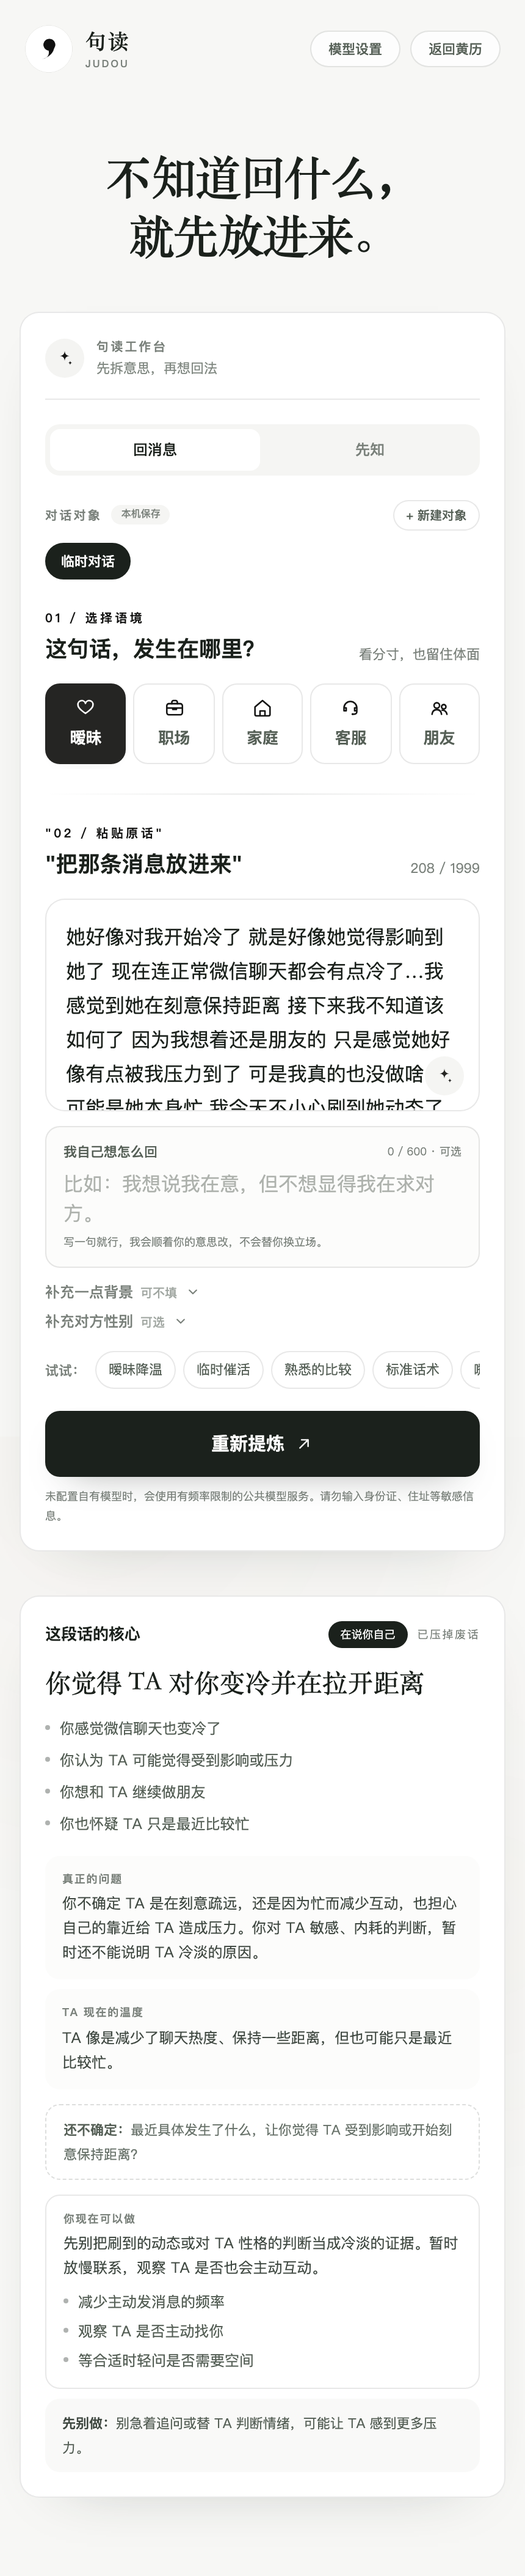
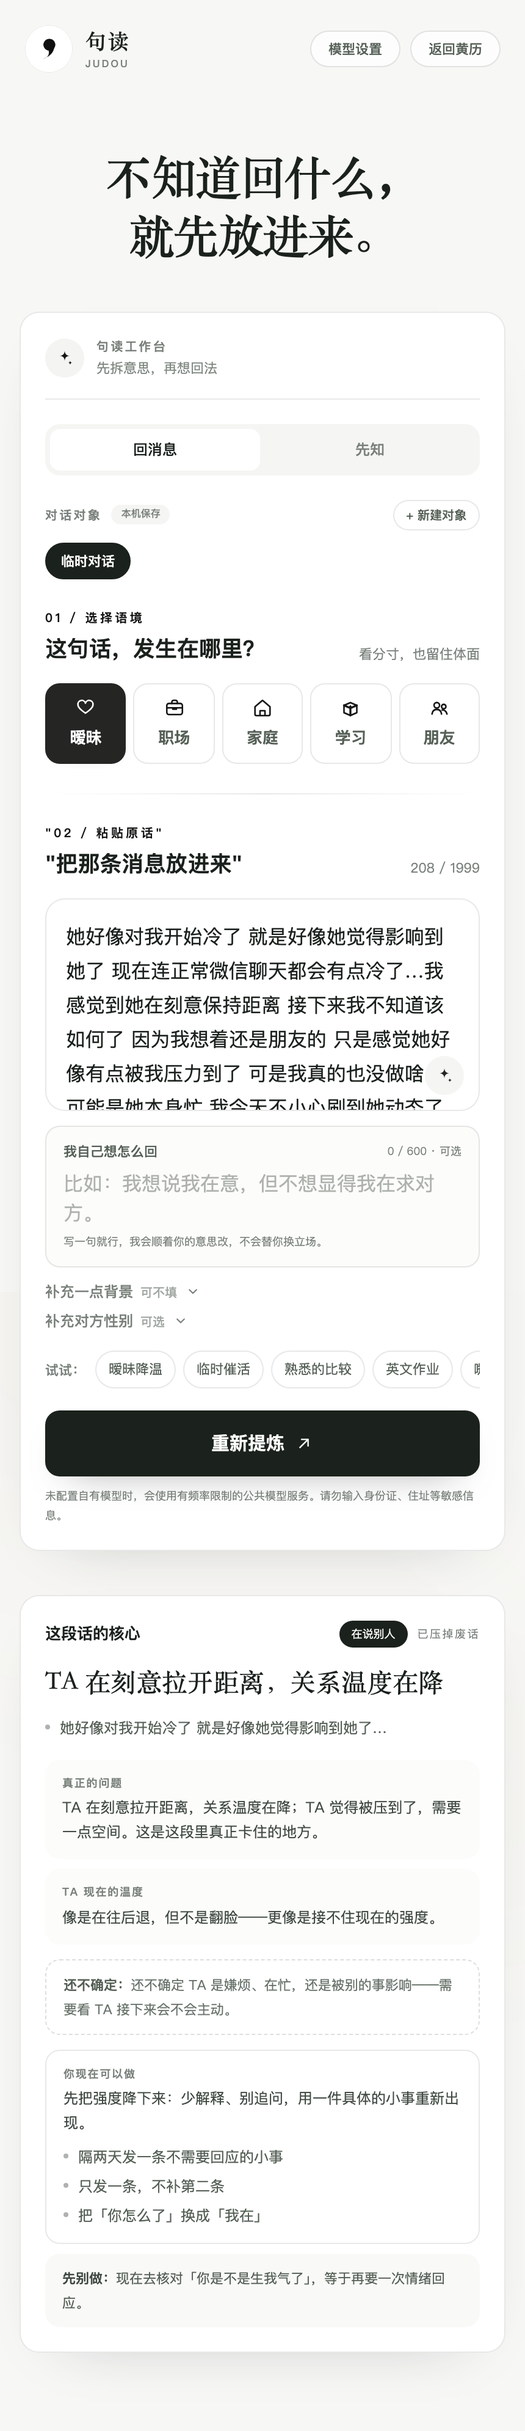
场景改学习；英文原文支持中英双语提炼
- 客服场景下线，替换为「学习」（含图标、示例、老数据迁移 service → study）
- 提炼结果新增 en 字段：英文/中英混排原文同时给中文与英文两版
- 结果卡右上角加「中 / EN」切换
- 截图脚本补 summary-en-mobile.png，展示图全部重新生成
- README 同步

diff --git a/components/SummaryCard.tsx b/components/SummaryCard.tsx
@@ -1,31 +1,63 @@
 "use client";
 
-import type { SummaryResult } from "@/lib/types";
+import { useState } from "react";
+
+import type { SummaryResult, SummaryTranslation } from "@/lib/types";
+
+type View = SummaryTranslation & { subject?: string };
 
 export function SummaryCard({ result }: { result: SummaryResult }) {
+  const [lang, setLang] = useState<"zh" | "en">("zh");
+  const hasEnglish = Boolean(result.en);
+  const view: View =
+    lang === "en" && result.en ? result.en : result;
+
   return (
     <section className="animate-fade-up rounded-2xl border border-ink-950/10 bg-white p-5 shadow-card sm:p-6">
       <div className="flex flex-wrap items-center justify-between gap-2">
-        <h3 className="text-[13px] font-semibold text-ink-950">这段话的核心</h3>
+        <h3 className="text-[13px] font-semibold text-ink-950">
+          {lang === "en" ? "The gist" : "这段话的核心"}
+        </h3>
         <div className="flex items-center gap-2">
-          {result.subject ? (
+          {hasEnglish ? (
+            <div className="flex rounded-full bg-cream-100 p-0.5">
+              {[
+                { value: "zh" as const, label: "中" },
+                { value: "en" as const, label: "EN" },
+              ].map((item) => (
+                <button
+                  key={item.value}
+                  type="button"
+                  onClick={() => setLang(item.value)}
+                  className={`rounded-full px-2.5 py-1 text-[10px] font-medium transition-colors ${
+                    lang === item.value
+                      ? "bg-white text-ink-950 shadow-soft"
+                      : "text-ink-400"
+                  }`}
+                >
+                  {item.label}
+                </button>
+              ))}
+            </div>
+          ) : null}
+          {result.subject && lang === "zh" ? (
             <span className="rounded-full bg-ink-950 px-2.5 py-1 text-[9px] text-cream-50">
               {result.subject}
             </span>
           ) : null}
           <span className="text-[9px] tracking-[0.14em] text-ink-400">
-            已压掉废话
+            {lang === "en" ? "trimmed" : "已压掉废话"}
           </span>
         </div>
       </div>
 
       <p className="mt-3 font-serif text-[21px] leading-8 text-ink-950 sm:text-[24px]">
-        {result.core}
+        {view.core}
       </p>
 
-      {result.points.length > 0 ? (
+      {view.points.length > 0 ? (
         <ul className="mt-3 space-y-1.5">
-          {result.points.map((point) => (
+          {view.points.map((point) => (
             <li
               key={point}
               className="flex gap-2 text-[12px] leading-5 text-ink-600"
@@ -39,41 +71,39 @@ export function SummaryCard({ result }: { result: SummaryResult }) {
 
       <div className="mt-4 rounded-xl bg-cream-50 px-3.5 py-3">
         <p className="text-[9px] font-semibold tracking-[0.1em] text-ink-400">
-          真正的问题
+          {lang === "en" ? "The real issue" : "真正的问题"}
         </p>
-        <p className="mt-1 text-[12px] leading-5 text-ink-700">
-          {result.meaning}
-        </p>
+        <p className="mt-1 text-[12px] leading-5 text-ink-700">{view.meaning}</p>
       </div>
 
-      {result.temperature ? (
+      {view.temperature ? (
         <div className="mt-2 rounded-xl bg-cream-50 px-3.5 py-3">
           <p className="text-[9px] font-semibold tracking-[0.1em] text-ink-400">
-            TA 现在的温度
+            {lang === "en" ? "Their temperature" : "TA 现在的温度"}
           </p>
           <p className="mt-1 text-[12px] leading-5 text-ink-700">
-            {result.temperature}
+            {view.temperature}
           </p>
         </div>
       ) : null}
 
-      {result.missing ? (
+      {view.missing ? (
         <p className="mt-3 rounded-xl border border-dashed border-ink-950/15 px-3.5 py-2.5 text-[11px] leading-5 text-ink-500">
-          <span className="font-semibold text-ink-600">还不确定：</span>
-          {result.missing}
+          <span className="font-semibold text-ink-600">
+            {lang === "en" ? "Not sure yet: " : "还不确定："}
+          </span>
+          {view.missing}
         </p>
       ) : null}
 
       <div className="mt-3 rounded-xl border border-ink-950/10 px-3.5 py-3">
         <p className="text-[9px] font-semibold tracking-[0.1em] text-ink-400">
-          你现在可以做
+          {lang === "en" ? "What you can do now" : "你现在可以做"}
         </p>
-        <p className="mt-1 text-[12px] leading-5 text-ink-700">
-          {result.advice}
-        </p>
-        {result.moves && result.moves.length > 0 ? (
+        <p className="mt-1 text-[12px] leading-5 text-ink-700">{view.advice}</p>
+        {view.moves && view.moves.length > 0 ? (
           <ul className="mt-2 space-y-1">
-            {result.moves.map((move) => (
+            {view.moves.map((move) => (
               <li
                 key={move}
                 className="flex gap-2 text-[12px] leading-5 text-ink-600"
@@ -86,10 +116,12 @@ export function SummaryCard({ result }: { result: SummaryResult }) {
         ) : null}
       </div>
 
-      {result.avoid ? (
+      {view.avoid ? (
         <p className="mt-2 rounded-xl bg-gold-300/15 px-3.5 py-2.5 text-[11px] leading-5 text-ink-600">
-          <span className="font-semibold text-ink-700">先别做：</span>
-          {result.avoid}
+          <span className="font-semibold text-ink-700">
+            {lang === "en" ? "Don't: " : "先别做："}
+          </span>
+          {view.avoid}
         </p>
       ) : null}
     </section>

diff --git a/lib/summarizeDemo.ts b/lib/summarizeDemo.ts
@@ -17,6 +17,13 @@ function splitSentences(text: string): string[] {
     .filter((item) => item.length > 2);
 }
 
+/** 判断原文是不是英文为主（>=20 个字母且中文字符少）。 */
+export function looksEnglish(text: string): boolean {
+  const letters = (text.match(/[A-Za-z]/g) ?? []).length;
+  const cjk = (text.match(/[\u4e00-\u9fa5]/g) ?? []).length;
+  return letters >= 20 && letters > cjk * 2;
+}
+
 /** 没有模型时，用句子切分 + 关键词兜一个能看的结果。 */
 export function buildSummaryDemo(req: SummaryRequest): SummaryResult {
   const text = req.text.trim();
@@ -42,6 +49,33 @@ export function buildSummaryDemo(req: SummaryRequest): SummaryResult {
 
   const cooling = /冷|距离|疏远/.test(text);
   const pressured = /压力|压到|有负担/.test(text);
+
+  if (looksEnglish(text)) {
+    const enSentences = splitSentences(text).slice(0, 4);
+    return {
+      subject: "在说别人",
+      core: enSentences[0]?.slice(0, 80) ?? "This passage needs a closer read.",
+      points: enSentences.map((item) => item.slice(0, 70)),
+      meaning:
+        "This is an English passage; the model is busy, so only the key sentences are pulled out.",
+      temperature: "Not applicable — this looks like an article or homework text.",
+      advice: "Read the pulled sentences first; retry in a moment for a full bilingual breakdown.",
+      moves: ["Mark the topic sentence", "Underline the numbers and how they change"],
+      avoid: "Do not treat it as a message from someone you know.",
+      missing: "Who this text is for, and what you need it for.",
+      en: {
+        core: enSentences[0]?.slice(0, 80) ?? "This passage needs a closer read.",
+        points: enSentences.map((item) => item.slice(0, 70)),
+        meaning:
+          "This is an English passage; the model is busy, so only the key sentences are pulled out.",
+        temperature: "Not applicable — this looks like an article or homework text.",
+        advice: "Read the pulled sentences first; retry in a moment for a full bilingual breakdown.",
+        moves: ["Mark the topic sentence", "Underline the numbers and how they change"],
+        avoid: "Do not treat it as a message from someone you know.",
+        missing: "Who this text is for, and what you need it for.",
+      },
+    };
+  }
 
   return {
     subject,

diff --git a/lib/summarizePrompt.ts b/lib/summarizePrompt.ts
@@ -11,8 +11,12 @@ export const SUMMARY_SYSTEM_PROMPT = `你是「句读」里负责拆长消息的
 4. 先判断这段话是谁说的：
    - 如果是对方发来的原话：meaning 写「TA 真正想表达什么」。
    - 如果是用户自己在叙述、纠结、吐槽：meaning 写「这段关系真正卡在哪」，不要硬说成是 TA 说的。
-5. 只输出 JSON：
-   {"subject": "...", "core": "...", "points": ["..."], "meaning": "...", "temperature": "...", "advice": "...", "moves": ["..."], "avoid": "...", "missing": "..."}
+5. 语言规则（重要）：
+   - 主字段（core/points/meaning/temperature/advice/moves/avoid/missing）一律用**简体中文**写，方便中文用户读；
+   - 如果原文是**英文**或者中英混排，再加一个 en 对象，把这些字段用**英文重写一遍**：{"core":"…","points":["…"],"meaning":"…","temperature":"…","advice":"…","moves":["…"],"avoid":"…","missing":"…"}；
+   - 原文是纯中文时，不要输出 en。
+6. 只输出 JSON：
+   {"subject": "...", "core": "...", "points": ["..."], "meaning": "...", "temperature": "...", "advice": "...", "moves": ["..."], "avoid": "...", "missing": "...", "en": { ... 可选 ... }}
    subject：这段话在说谁，只能填「在说你自己」「在说 TA 自己」「在说别人」三者之一；
    core：一句话说清这段在讲什么，30 个汉字以内，主语必须明确（谁对谁）；
    points：2-4 条，每条 24 字以内，只写事实和可验证的判断，不写抒情；

diff --git a/app/api/summarize/route.ts b/app/api/summarize/route.ts
@@ -100,6 +100,26 @@ async function summarize(req: SummaryRequest, request: Request): Promise<Summary
       return null;
     }
 
+    const rawEn = isRecord(parsed.en) ? parsed.en : null;
+    const enCore = rawEn ? readString(rawEn.core) : "";
+    const enPoints = rawEn && Array.isArray(rawEn.points)
+      ? rawEn.points.map((item) => readString(item)).filter(Boolean).slice(0, 4)
+      : [];
+    const en = rawEn && enCore && enPoints.length > 0
+      ? {
+          core: enCore,
+          points: enPoints,
+          meaning: readString(rawEn.meaning),
+          advice: readString(rawEn.advice),
+          ...(readString(rawEn.temperature) ? { temperature: readString(rawEn.temperature) } : {}),
+          ...(Array.isArray(rawEn.moves)
+            ? { moves: rawEn.moves.map((item) => readString(item)).filter(Boolean).slice(0, 3) }
+            : {}),
+          ...(readString(rawEn.avoid) ? { avoid: readString(rawEn.avoid) } : {}),
+          ...(readString(rawEn.missing) ? { missing: readString(rawEn.missing) } : {}),
+        }
+      : null;
+
     return {
       ...(subject ? { subject } : {}),
       core,
@@ -110,6 +130,7 @@ async function summarize(req: SummaryRequest, request: Request): Promise<Summary
       ...(moves.length > 0 ? { moves } : {}),
       ...(avoid ? { avoid } : {}),
       ...(missing ? { missing } : {}),
+      ...(en ? { en } : {}),
     };
   } catch (error) {
     console.error("[句读] summarize failed:", error);

diff --git a/lib/types.ts b/lib/types.ts
@@ -1,4 +1,4 @@
-export const SCENES = ["flirt", "work", "family", "service", "friend"] as const;
+export const SCENES = ["flirt", "work", "family", "study", "friend"] as const;
 export type Scene = (typeof SCENES)[number];
 
 export type Gender = "unknown" | "female" | "male";
@@ -84,6 +84,17 @@ export interface SummaryRequest {
   scene?: Scene;
 }
 
+export interface SummaryTranslation {
+  core: string;
+  points: string[];
+  meaning: string;
+  temperature?: string;
+  advice: string;
+  moves?: string[];
+  avoid?: string;
+  missing?: string;
+}
+
 export interface SummaryResult {
   /** 这段话在说谁 */
   subject?: string;
@@ -103,6 +114,8 @@ export interface SummaryResult {
   avoid?: string;
   /** 还缺什么信息 / 哪里不确定 */
   missing?: string;
+  /** 原文是英文（或中英混排）时，附一份英文版 */
+  en?: SummaryTranslation;
 }
 
 export interface SceneOption {

diff --git a/components/Icons.tsx b/components/Icons.tsx
@@ -270,18 +270,18 @@ export function SceneIcon({
     );
   }
 
-  if (scene === "service") {
+  if (scene === "study") {
     return (
       <svg {...commonProps}>
         <path
-          d="M5 12a7 7 0 0 1 14 0v4.4a2.4 2.4 0 0 1-2.4 2.4h-2.2M5 12v3.2h2.4v-3.2H5Zm14 0v3.2h-2.4v-3.2H19Z"
+          d="M12 6.5 5 9.5v8l7 3 7-3v-8l-7-3Z"
           stroke="currentColor"
           strokeWidth="1.7"
           strokeLinecap="round"
           strokeLinejoin="round"
         />
         <path
-          d="M14.4 18.8h.1"
+          d="M12 10.5v10M5 9.5l7 3 7-3"
           stroke="currentColor"
           strokeWidth="2.2"
           strokeLinecap="round"

diff --git a/lib/contacts.ts b/lib/contacts.ts
@@ -1,3 +1,4 @@
+import { isScene } from "@/lib/scenes";
 import type { Gender, Scene } from "@/lib/types";
 
 export interface Contact {
@@ -18,6 +19,12 @@ export const EMPTY_CONTACT_DRAFT: ContactDraft = {
   scene: "flirt",
   notes: "",
 };
+
+/** 老数据里的「客服」场景已经下线，读的时候统一迁到「学习」。 */
+export function normalizeScene(value: unknown): Scene {
+  if (value === "service") return "study";
+  return isScene(value) ? value : "flirt";
+}
 
 export function getContactLabel(contact: Contact): string {
   return contact.name.trim() || "未命名对象";

diff --git a/lib/examples.ts b/lib/examples.ts
@@ -19,9 +19,11 @@ export const EXAMPLE_MESSAGES: ExampleMessage[] = [
     message: "你看看别人家的孩子，再看看你。",
   },
   {
-    scene: "service",
-    label: "标准话术",
-    message: "亲，这个问题我们这边处理不了哦，您再想想办法呢～",
+    scene: "study",
+    label: "英文作业",
+    message:
+      "These figures had fallen to 2 and 5 W, respectively. Despite this decline, Australia remained considerably higher than Canada.",
+    context: "雅思小作文，描述柱状图趋势。",
   },
   {
     scene: "friend",

diff --git a/lib/useContacts.ts b/lib/useContacts.ts
@@ -4,6 +4,7 @@ import { useEffect, useMemo, useState } from "react";
 
 import {
   createContactRecord,
+  normalizeScene,
   type Contact,
   type ContactDraft,
 } from "@/lib/contacts";
@@ -35,6 +36,7 @@ function readStoredContacts(): StoredContacts {
             typeof item.id === "string" &&
             typeof item.name === "string",
         )
+          .map((item) => ({ ...item, scene: normalizeScene(item.scene) }))
       : [];
     const activeId = contacts.some((item) => item.id === parsed.activeId)
       ? (parsed.activeId ?? null)

diff --git a/lib/scenes.ts b/lib/scenes.ts
@@ -20,10 +20,10 @@ export const SCENE_OPTIONS: SceneOption[] = [
     hint: "接住关心，划清边界",
   },
   {
-    id: "service",
-    label: "客服",
-    eyebrow: "SERVICE",
-    hint: "不被话术绕进去",
+    id: "study",
+    label: "学习",
+    eyebrow: "STUDY",
+    hint: "把知识和作业讲清楚",
   },
   {
     id: "friend",

diff --git a/app/widget/page.tsx b/app/widget/page.tsx
@@ -19,7 +19,7 @@ const SCENES: Array<{ id: Scene; label: string }> = [
   { id: "flirt", label: "暧昧" },
   { id: "work", label: "职场" },
   { id: "family", label: "家庭" },
-  { id: "service", label: "客服" },
+  { id: "study", label: "学习" },
   { id: "friend", label: "朋友" },
 ];
 

diff --git a/components/AskPanel.tsx b/components/AskPanel.tsx
@@ -19,7 +19,7 @@ const SCENE_LABEL: Record<Scene, string> = {
   flirt: "暧昧",
   work: "职场",
   family: "家庭",
-  service: "客服",
+  study: "学习",
   friend: "朋友",
 };
 
